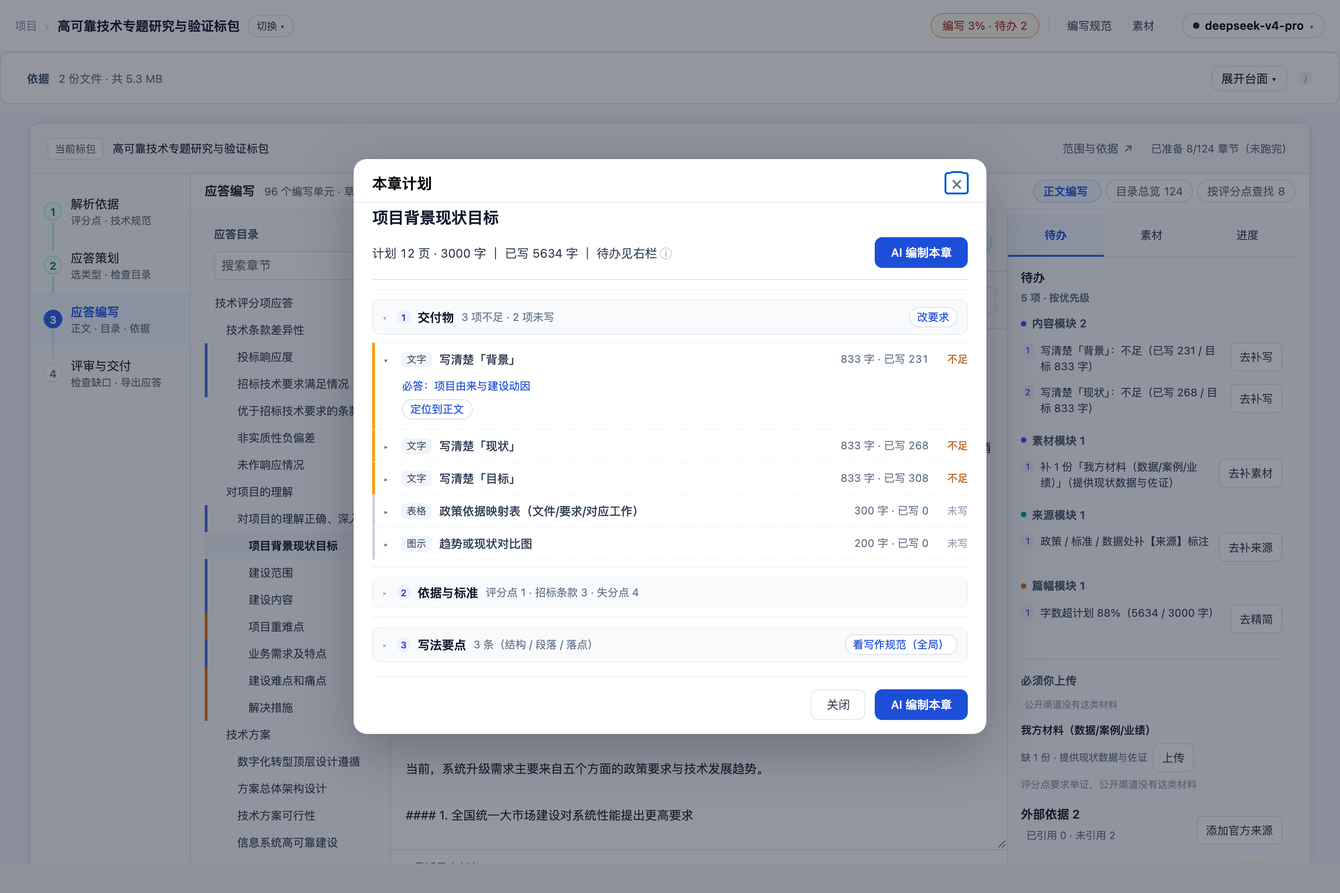
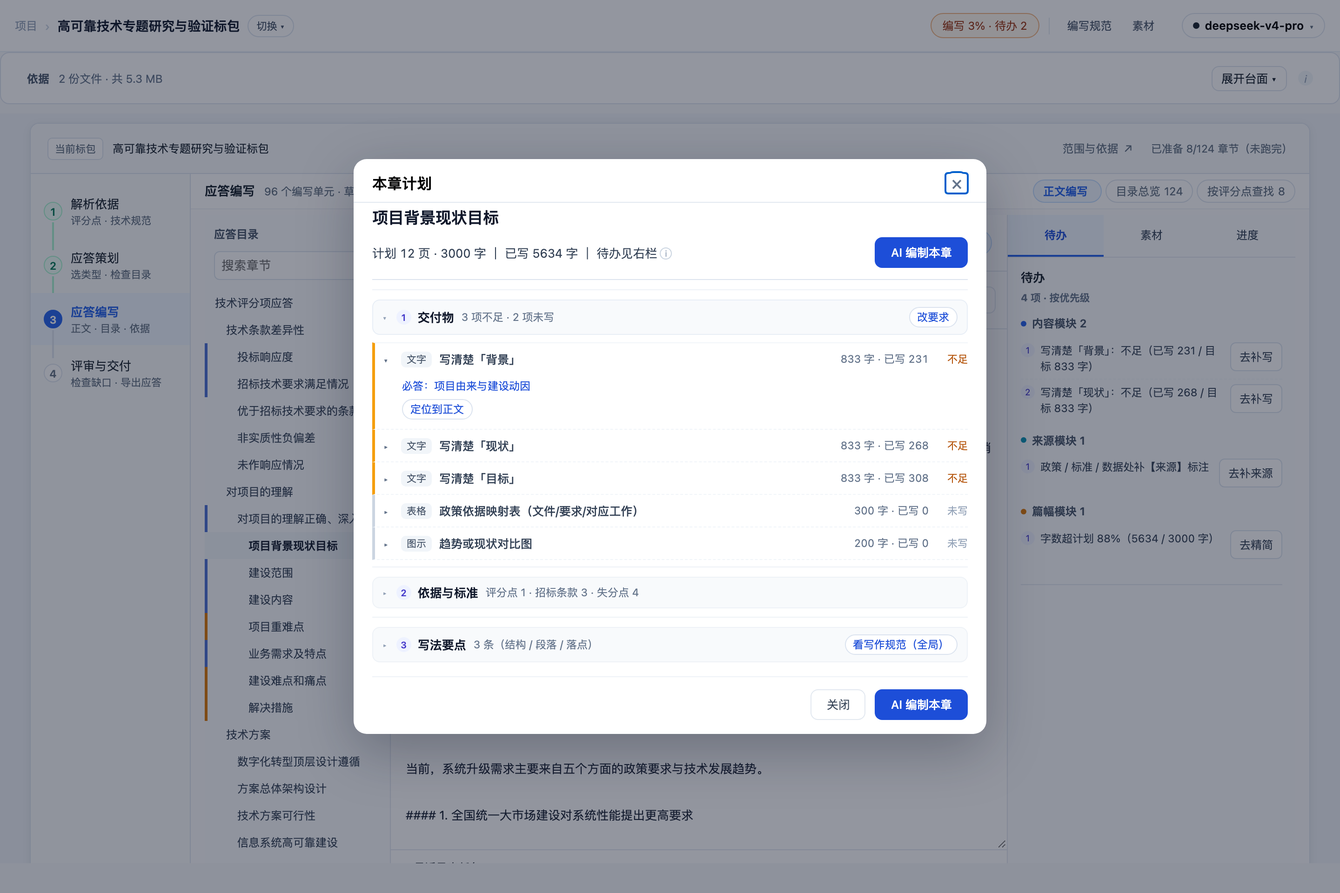
fix(右栏): 页签切换失效 + 素材类待办归位素材页签
用户截图指出两个问题：

## 1) 待办/素材页签切换失效（两个 pane 同时显示）
根因：pane 显隐规则还写着旧页签名
  `.cs-inspector[data-panel=basis] [data-pane=materials] …`
新页签是 todo/materials/ai → 规则不匹配 → 两个 pane 都渲染
修复：
  `.cs-inspector[data-panel=todo] [data-pane=materials] { display:none }`
  `.cs-inspector[data-panel=materials] [data-pane=todo] { display:none }`

## 2) 素材类问题应归「素材」页签
- 待办页签的分组去掉「素材模块」（只保留 内容/来源/篇幅/图表）
- 待办计数与章头角标同步排除素材类（5 → 4 项，见截图右上「待办 4」）
- 素材缺口仍在「素材」页签用三分法（公开可补 / 必须你上传）承载

## 自检新增 2 条（39 条）
- 待办页签不含素材模块
- 页签切换互斥（切素材时待办隐藏，同屏只能有一个 pane）

界面 39/39 通过（v318）

diff --git a/frontend/assets/chapter-studio.css b/frontend/assets/chapter-studio.css
@@ -3,7 +3,7 @@
 @media(max-width:1200px){.cs-workspace{grid-template-columns:185px minmax(300px,1fr)}.cs-aside{grid-column:1/-1;max-height:380px;border-top:1px solid #e2e8f0}.cs-workspace{height:auto}.cs-main{min-height:560px}.cs-tree{max-height:650px}}
 @media(max-width:700px){.cs-workspace,.cs-workspace:has(.cs-aside[hidden]){grid-template-columns:minmax(0,1fr)}.cs-tree{max-height:200px;border-bottom:1px solid #e2e8f0}.cs-editor{min-height:380px}.cs-document [data-cs=progress]{margin-left:0}}
 .cs-team{padding:10px 12px;background:#f8fafc;border-bottom:1px solid #e2e8f0;font-size:12px;line-height:1.8}.cs-team summary{cursor:pointer;font-weight:600}.cs-team button{font:inherit;padding:5px 9px;background:white;border:1px solid #dbe3ef;border-radius:6px;margin:3px 6px 3px 0;cursor:pointer}.cs-team button:disabled{opacity:.5}.ct-models{display:grid;grid-template-columns:repeat(auto-fit,minmax(180px,1fr));gap:8px;padding:8px 0}.ct-models label{display:flex;flex-direction:column;gap:4px}.ct-models select{padding:5px;max-width:100%;border:1px solid #dbe3ef;border-radius:5px}.ct-jobs article{padding:8px 0;border-bottom:1px solid #e2e8f0}.ct-jobs strong{margin-right:12px}.ct-detail{max-height:360px;overflow:auto}.ct-detail h4,.ct-detail h5{margin:8px 0}.ct-status:not(:empty){padding:8px 0;color:#1e40af}
-.cs-document-head{display:flex;justify-content:space-between;align-items:center;gap:12px;padding:12px 0;font-size:13px;border-bottom:1px solid #e2e8f0}.cs-document-head [data-cs=progress]{margin-left:12px;font-size:12px;color:#64748b}.cs-delivery{position:relative;font-size:12px}.cs-delivery>summary{cursor:pointer;color:#475569}.cs-delivery>.cs-document{position:absolute;right:0;top:26px;width:400px;max-width:80vw;padding:16px;background:white;border:1px solid #dbe3ef;border-radius:8px;box-shadow:0 8px 24px #17203315;z-index:5}.cs-tree-label{padding:12px 10px 0;font-size:12px;font-weight:600;color:#475569}.cs-main .cs-chapter-heading{padding:16px 16px 10px}.cs-chapter-heading h3{margin:3px 0 6px;font-size:18px}.cs-more{position:relative;margin-left:auto;font-size:12px}.cs-more>summary{cursor:pointer;padding:6px 9px}.cs-more[open]{display:flex;flex-wrap:wrap}.cs-toolbar{align-items:center}.cs-inspector{padding:0;min-width:0}.cs-inspector-tabs{display:flex;position:sticky;top:0;z-index:2;background:#fafbfd;border-bottom:1px solid #e2e8f0}.cs-inspector-tabs button{flex:1;border:0;border-bottom:2px solid transparent;border-radius:0;padding:13px 3px;white-space:nowrap;background:transparent}.cs-inspector-tabs [aria-pressed=true]{border-bottom-color:#2563eb;color:#1d4ed8;font-weight:600;background:#eff6ff}.cs-inspector [data-cs=aside]{padding:0 14px}.cs-inspector[data-panel=basis] [data-pane=materials],.cs-inspector[data-panel=materials] [data-pane=basis],.cs-inspector:not([data-panel=ai]) .cs-team,.cs-inspector[data-panel=ai] [data-cs=aside]{display:none}.cs-inspector .cs-team{border:0;background:transparent;padding:14px}.cs-team h4{font-size:14px;margin:0 0 8px}.cs-team .cs-primary{background:#2563eb;color:#fff;border-color:#2563eb;padding:9px 14px}.ct-steps{display:flex;gap:4px;padding:0;list-style:none;margin:12px 0;font-size:11px}.ct-steps li{flex:1;background:#f1f5f9;color:#64748b;padding:6px 3px;text-align:center;border-radius:4px}.ct-steps .active{background:#dbeafe;color:#1d4ed8}.ct-steps .done{background:#ecfdf5;color:#047857}.ct-settings,.ct-history{padding:12px 0;border-bottom:1px solid #e2e8f0}.ct-history article{padding:10px 0;border-bottom:1px solid #e2e8f0}.ct-detail:empty{display:none}.cs-workspace .cs-editor:focus{box-shadow:inset 3px 0 #dbeafe}
+.cs-document-head{display:flex;justify-content:space-between;align-items:center;gap:12px;padding:12px 0;font-size:13px;border-bottom:1px solid #e2e8f0}.cs-document-head [data-cs=progress]{margin-left:12px;font-size:12px;color:#64748b}.cs-delivery{position:relative;font-size:12px}.cs-delivery>summary{cursor:pointer;color:#475569}.cs-delivery>.cs-document{position:absolute;right:0;top:26px;width:400px;max-width:80vw;padding:16px;background:white;border:1px solid #dbe3ef;border-radius:8px;box-shadow:0 8px 24px #17203315;z-index:5}.cs-tree-label{padding:12px 10px 0;font-size:12px;font-weight:600;color:#475569}.cs-main .cs-chapter-heading{padding:16px 16px 10px}.cs-chapter-heading h3{margin:3px 0 6px;font-size:18px}.cs-more{position:relative;margin-left:auto;font-size:12px}.cs-more>summary{cursor:pointer;padding:6px 9px}.cs-more[open]{display:flex;flex-wrap:wrap}.cs-toolbar{align-items:center}.cs-inspector{padding:0;min-width:0}.cs-inspector-tabs{display:flex;position:sticky;top:0;z-index:2;background:#fafbfd;border-bottom:1px solid #e2e8f0}.cs-inspector-tabs button{flex:1;border:0;border-bottom:2px solid transparent;border-radius:0;padding:13px 3px;white-space:nowrap;background:transparent}.cs-inspector-tabs [aria-pressed=true]{border-bottom-color:#2563eb;color:#1d4ed8;font-weight:600;background:#eff6ff}.cs-inspector [data-cs=aside]{padding:0 14px}.cs-inspector[data-panel=todo] [data-pane=materials],.cs-inspector[data-panel=materials] [data-pane=todo],.cs-inspector:not([data-panel=ai]) .cs-team,.cs-inspector[data-panel=ai] [data-cs=aside]{display:none}.cs-inspector .cs-team{border:0;background:transparent;padding:14px}.cs-team h4{font-size:14px;margin:0 0 8px}.cs-team .cs-primary{background:#2563eb;color:#fff;border-color:#2563eb;padding:9px 14px}.ct-steps{display:flex;gap:4px;padding:0;list-style:none;margin:12px 0;font-size:11px}.ct-steps li{flex:1;background:#f1f5f9;color:#64748b;padding:6px 3px;text-align:center;border-radius:4px}.ct-steps .active{background:#dbeafe;color:#1d4ed8}.ct-steps .done{background:#ecfdf5;color:#047857}.ct-settings,.ct-history{padding:12px 0;border-bottom:1px solid #e2e8f0}.ct-history article{padding:10px 0;border-bottom:1px solid #e2e8f0}.ct-detail:empty{display:none}.cs-workspace .cs-editor:focus{box-shadow:inset 3px 0 #dbeafe}
 @media(min-width:981px){.cs-workspace{grid-template-columns:200px minmax(300px,1fr) 310px;height:75vh;min-height:620px}.cs-inspector{grid-column:auto;max-height:none;border-top:0}.cs-main{min-height:0}.cs-tree{max-height:none}}
 @media(max-width:980px){.cs-workspace{grid-template-columns:180px minmax(0,1fr);height:auto}.cs-inspector{grid-column:1/-1;max-height:500px;border-top:1px solid #e2e8f0}.cs-document-head{flex-wrap:wrap}.cs-document-head [data-cs=progress]{display:block;margin:5px 0 0}.cs-main{min-height:500px}.cs-tree{max-height:650px}}
 @media(max-width:600px){.cs-workspace{grid-template-columns:minmax(0,1fr)}.cs-tree{max-height:190px}.cs-toolbar{gap:4px;padding:8px}.cs-main .cs-chapter-heading{padding:12px}.cs-insert .cs-muted{display:none}}

diff --git a/frontend/assets/mode-outline.js b/frontend/assets/mode-outline.js
@@ -2,9 +2,9 @@
    抽成模块的目的：两段内联脚本有 90 个同名顶层标识符 + 18 个重复 DOM id，
    同页拼接必然互相覆盖；各自成为一个模块即各自一个作用域。
    本文件在抽取时**未改任何逻辑**。 */
-import {mountChapterStudio, exportDocument} from './chapter-studio.mjs?v=20261016-v317';
-import { api } from './api.js?v=20261016-v317';
-import { specContentHtml } from './spec-content.mjs?v=20261016-v317';
+import {mountChapterStudio, exportDocument} from './chapter-studio.mjs?v=20261016-v318';
+import { api } from './api.js?v=20261016-v318';
+import { specContentHtml } from './spec-content.mjs?v=20261016-v318';
 // 顶栏（项目名旁边那行「第 N 轮 · ...」）由共享壳 workspace.js 渲染。这里要把它
 // 改成**页面自己的真实状态**：checkpoint 的 stage 在准备中/编写准备完成后都停在
 // outline_review，只看它的话顶栏永远显示"待确认目录"（实测就是这个问题）。
@@ -12,7 +12,7 @@ import { workspace, renderWorkspaceChrome,
          REQUIREMENT_ROLES, SELECTABLE_REQUIREMENT_ROLES, ROLE_LABEL_SHARED, ROLE_HINT_SHARED,
          roleMismatchWarning, inferRoleFromFilename,
          uiAlert, uiConfirm,
-       } from './workspace.js?v=20261016-v317';
+       } from './workspace.js?v=20261016-v318';
 import { resolvePackageScope, buildOutlineTree, isOrphanedRun, activeStages, instructionDirty, newOutlineId, outlineSubtreeRange,
          moveOutlineNode, indentOutlineNode, outdentOutlineNode,
          moveManyOutlineNodes, indentManyOutlineNodes, outdentManyOutlineNodes,
@@ -31,7 +31,7 @@ import { resolvePackageScope, buildOutlineTree, isOrphanedRun, activeStages, ins
          // 章节状态投影：素材库 / 方案编辑 / 覆盖矩阵共用同一份判定（不再各算各的）
          chapterStage, chapterBadges, filterChapters, chapterFilterCounts,
          CHAPTER_STAGE_LABELS, evidenceByChapter, expandVisibleWithAncestors
-       } from './workspace-model.mjs?v=20261016-v317';
+       } from './workspace-model.mjs?v=20261016-v318';
 
 const params = new URLSearchParams(location.search);
 // projectId **只取数字部分**：链接被误写成 `?projectId=19**(Cmd+Shift+R)`（连带说明文字）
@@ -180,7 +180,7 @@ document.head.insertAdjacentHTML('beforeend', `<style>
 // 左栏章节树：行标记与「方案编辑」共用一份（2026-10-13 左栏归一）。
 // 此前两侧各拼一套（.ot-row / .doc-outline-item），数据投影虽已共用，
 // 但标记重复维护会漂移（workspace-model.mjs 注释里记着 "#undefined" 那次）。
-import { chapterNode, chapterBadgesHtml as sharedBadgesHtml } from './chapter-tree.mjs?v=20261016-v317';
+import { chapterNode, chapterBadgesHtml as sharedBadgesHtml } from './chapter-tree.mjs?v=20261016-v318';
 const blocksEmpty = document.getElementById('blocks-empty');
 const sidebarToc  = document.getElementById('sidebar-toc');
 const ringFill    = document.getElementById('ring-fill');

diff --git a/frontend/workbench.html b/frontend/workbench.html
@@ -4,7 +4,7 @@
     <meta charset="UTF-8" />
     <meta name="viewport" content="width=device-width, initial-scale=1.0" />
     <title>智能应标 · 材料撰写</title>
-    <link rel="stylesheet" href="./assets/styles.css?v=20261016-v317" />
+    <link rel="stylesheet" href="./assets/styles.css?v=20261016-v318" />
     <style>
       /* Outline pane */
       .workspace-shell .outline-pane {
@@ -2055,7 +2055,7 @@
     </style>
     <!-- Markdown 渲染（用于预览模式） -->
     <script src="https://cdn.jsdelivr.net/npm/marked@12.0.0/marked.min.js"></script>
-  <link rel="stylesheet" href="./assets/workspace.css?v=20261016-v317" />
+  <link rel="stylesheet" href="./assets/workspace.css?v=20261016-v318" />
   </head>
   <body>
   <script>
@@ -2500,18 +2500,18 @@
       </main>
     </div>
 
-    <script type="module" src="./assets/workbench.js?v=20261016-v317"></script>
+    <script type="module" src="./assets/workbench.js?v=20261016-v318"></script>
     <script type="module">
-      import { GenerateSession } from './assets/generate-session.js?v=20261016-v317';
-      import { initContextPanel } from './assets/context-panel.js?v=20261016-v317';
-      import { api } from './assets/api.js?v=20261016-v317';
-      import { request as workspaceRequest, refreshWorkspace, workspace, confirmChapterAction } from './assets/workspace.js?v=20261016-v317';
+      import { GenerateSession } from './assets/generate-session.js?v=20261016-v318';
+      import { initContextPanel } from './assets/context-panel.js?v=20261016-v318';
+      import { api } from './assets/api.js?v=20261016-v318';
+      import { request as workspaceRequest, refreshWorkspace, workspace, confirmChapterAction } from './assets/workspace.js?v=20261016-v318';
       // 提炼字段枚举 + 素材依据的**渲染片段**与 project-init 共用（见 workspace-model.mjs 注释）：
       // 性质徽标与出处行的实现在那边只有一份，两个页面不再各写一套（曾经因此漂移出
       // "每行显示 #undefined"）。
       import { CONSTRAINT_LEVELS, constraintLevelLabel,
                evidenceKindBadgeHtml, evidenceSourceLineHtml, evidenceSnippet,
-               chapterStage, CHAPTER_STAGE_LABELS } from './assets/workspace-model.mjs?v=20261016-v317';
+               chapterStage, CHAPTER_STAGE_LABELS } from './assets/workspace-model.mjs?v=20261016-v318';
       initContextPanel();
 
       // 素材抽屉：默认收起（写作时右栏就是正文本身），点工具栏「素材 n ▸」打开；
@@ -5575,6 +5575,6 @@
       })();
     })();
     </script>
-  <script type="module" src="./assets/workspace.js?v=20261016-v317"></script>
+  <script type="module" src="./assets/workspace.js?v=20261016-v318"></script>
   </body>
 </html>

diff --git a/frontend/three-mode.html b/frontend/three-mode.html
@@ -4,9 +4,9 @@
     <meta charset="UTF-8" />
     <meta name="viewport" content="width=device-width, initial-scale=1.0" />
     <title>AiBidding · Workbench Init State</title>
-    <link rel="stylesheet" href="./assets/response-outline.css?v=20261016-v317" />
-    <link rel="stylesheet" href="./assets/chapter-studio.css?v=20261016-v317" />
-    <link rel="stylesheet" href="./assets/styles.css?v=20261016-v317" />
+    <link rel="stylesheet" href="./assets/response-outline.css?v=20261016-v318" />
+    <link rel="stylesheet" href="./assets/chapter-studio.css?v=20261016-v318" />
+    <link rel="stylesheet" href="./assets/styles.css?v=20261016-v318" />
     <style>
 /* ── 三栏布局 ── */
 .init-layout {
@@ -3350,8 +3350,8 @@ body[data-view="matching"] .match-detail { display: block; }
   body[data-view="editor"] .ws-editor-layout { flex: 1 1 auto; min-height: 0; }
 
 </style>
-  <link rel="stylesheet" href="./assets/workspace.css?v=20261016-v317" />
-  <link rel="stylesheet" href="./assets/ui.css?v=20261016-v317" />   <!-- 组件最小集：最后加载以统一历史类名 -->
+  <link rel="stylesheet" href="./assets/workspace.css?v=20261016-v318" />
+  <link rel="stylesheet" href="./assets/ui.css?v=20261016-v318" />   <!-- 组件最小集：最后加载以统一历史类名 -->
   </head>
   <body data-view="outline" data-modes="outline,matching,editor">
     <div class="workspace-shell">
@@ -4062,16 +4062,16 @@ body[data-view="matching"] .match-detail { display: block; }
         if (skel) skel.hidden = true;
       }, 6000);
     </script>
-    <script type="module" src="./assets/workbench.js?v=20261016-v317"></script>
-    <script type="module" src="./assets/mode-dispatch.js?v=20261016-v317"></script>
+    <script type="module" src="./assets/workbench.js?v=20261016-v318"></script>
+    <script type="module" src="./assets/mode-dispatch.js?v=20261016-v318"></script>
     <!-- 动态 import：失败可捕获并上报（静态 import 失败无法捕获，会让整页静默不执行） -->
     <script type="module">
-      for (const mod of ['./assets/mode-outline.js?v=20261016-v317',
-                        './assets/mode-editor.js?v=20261016-v317']) {
+      for (const mod of ['./assets/mode-outline.js?v=20261016-v318',
+                        './assets/mode-editor.js?v=20261016-v318']) {
         try { await import(mod); }
         catch (err) { window.__bootErrors.push(`模块加载失败 ${mod}：${err?.message || err}`); }
       }
     </script>
-  <script type="module" src="./assets/workspace.js?v=20261016-v317"></script>
+  <script type="module" src="./assets/workspace.js?v=20261016-v318"></script>
   </body>
 </html>

diff --git a/frontend/project-init.html b/frontend/project-init.html
@@ -4,7 +4,7 @@
     <meta charset="UTF-8" />
     <meta name="viewport" content="width=device-width, initial-scale=1.0" />
     <title>AiBidding · Workbench Init State</title>
-    <link rel="stylesheet" href="./assets/styles.css?v=20261016-v317" />
+    <link rel="stylesheet" href="./assets/styles.css?v=20261016-v318" />
     <style>
 /* ── 三栏布局 ── */
 .init-layout {
@@ -889,7 +889,7 @@ body[data-view="matching"] .match-detail { display: block; }
   background: #eff6ff;
 }
     </style>
-  <link rel="stylesheet" href="./assets/workspace.css?v=20261016-v317" />
+  <link rel="stylesheet" href="./assets/workspace.css?v=20261016-v318" />
   </head>
   <body data-view="outline">
   <script>
@@ -1097,14 +1097,14 @@ body[data-view="matching"] .match-detail { display: block; }
     </div>
 
     <script type="module">
-import { api } from './assets/api.js?v=20261016-v317';
+import { api } from './assets/api.js?v=20261016-v318';
 // 顶栏（项目名旁边那行「第 N 轮 · ...」）由共享壳 workspace.js 渲染。这里要把它
 // 改成**页面自己的真实状态**：checkpoint 的 stage 在提炼中/提炼完成后都停在
 // outline_review，只看它的话顶栏永远显示"待确认目录"（实测就是这个问题）。
 import { workspace, renderWorkspaceChrome,
          REQUIREMENT_ROLES, ROLE_LABEL_SHARED, ROLE_HINT_SHARED,
          roleMismatchWarning, inferRoleFromFilename,
-       } from './assets/workspace.js?v=20261016-v317';
+       } from './assets/workspace.js?v=20261016-v318';
 import { buildOutlineTree, isOrphanedRun, activeStages, instructionDirty, newOutlineId, outlineSubtreeRange,
          moveOutlineNode, indentOutlineNode, outdentOutlineNode,
          removeOutlineSubtree, insertSiblingAfter, insertChildOf,
@@ -1118,7 +1118,7 @@ import { buildOutlineTree, isOrphanedRun, activeStages, instructionDirty, newOut
          // 章节状态投影：素材库 / 方案编辑 / 覆盖矩阵共用同一份判定（不再各算各的）
          chapterStage, chapterBadges, filterChapters, chapterFilterCounts,
          CHAPTER_STAGE_LABELS, evidenceByChapter, expandVisibleWithAncestors
-       } from './assets/workspace-model.mjs?v=20261016-v317';
+       } from './assets/workspace-model.mjs?v=20261016-v318';
 
 const params = new URLSearchParams(location.search);
 const projectId = params.get('projectId');
@@ -4957,6 +4957,6 @@ bindMatchDetailActions();
   });
 })();
     </script>
-  <script type="module" src="./assets/workspace.js?v=20261016-v317"></script>
+  <script type="module" src="./assets/workspace.js?v=20261016-v318"></script>
   </body>
 </html>

diff --git a/frontend/assets/mode-editor.js b/frontend/assets/mode-editor.js
@@ -2,13 +2,13 @@
    抽成模块的目的：两段内联脚本有 90 个同名顶层标识符 + 18 个重复 DOM id，
    同页拼接必然互相覆盖；各自成为一个模块即各自一个作用域。
    本文件在抽取时**未改任何逻辑**。 */
-import { GenerateSession } from './generate-session.js?v=20261016-v317';
+import { GenerateSession } from './generate-session.js?v=20261016-v318';
 // 左栏章节树：与「要求与大纲 / 素材库」共用一份行标记（2026-10-13 左栏归一）
-import { chapterNode, renderChapterTree } from './chapter-tree.mjs?v=20261016-v317';
-import { initContextPanel } from './context-panel.js?v=20261016-v317';
-import { api } from './api.js?v=20261016-v317';
+import { chapterNode, renderChapterTree } from './chapter-tree.mjs?v=20261016-v318';
+import { initContextPanel } from './context-panel.js?v=20261016-v318';
+import { api } from './api.js?v=20261016-v318';
 import { request as workspaceRequest, refreshWorkspace, workspace, confirmChapterAction ,
-         uiAlert, uiConfirm} from './workspace.js?v=20261016-v317';
+         uiAlert, uiConfirm} from './workspace.js?v=20261016-v318';
 
 // ── 本章要求 bar 的应答条目缓存 ──────────────────────────────
 // 必须**声明在模块最前面**：它原本声明在文件中部，而模块之间存在循环依赖
@@ -21,7 +21,7 @@ let responseItemsByBlock = {};
 // "每行显示 #undefined"）。
 import { CONSTRAINT_LEVELS, constraintLevelLabel,
          evidenceKindBadgeHtml, evidenceSourceLineHtml, evidenceSnippet,
-         chapterStage, CHAPTER_STAGE_LABELS } from './workspace-model.mjs?v=20261016-v317';
+         chapterStage, CHAPTER_STAGE_LABELS } from './workspace-model.mjs?v=20261016-v318';
 initContextPanel();
 
 // 素材抽屉：默认收起（写作时右栏就是正文本身），点工具栏「素材 n ▸」打开；

diff --git a/frontend/project-intake.html b/frontend/project-intake.html
@@ -3,7 +3,7 @@
 <head>
   <meta charset="utf-8"><meta name="viewport" content="width=device-width,initial-scale=1">
   <title>项目准备 · 智能应标</title>
-  <link rel="stylesheet" href="/assets/styles.css?v=20261016-v317">
+  <link rel="stylesheet" href="/assets/styles.css?v=20261016-v318">
   <style>
     body{margin:0;background:#f7f8fa;color:#17202a;font-family:Inter,"PingFang SC",sans-serif}
     .shell{max-width:1120px;margin:auto;padding:28px}.top{display:flex;justify-content:space-between;align-items:center;margin-bottom:22px}
@@ -32,4 +32,4 @@
 </main>
 <dialog id="package-editor"><form id="package-form"><h2>编辑投标对象</h2><p class="hint">仅在识别有误时修改；名称可留空。</p><input id="edit-id" type="hidden"><label>对象类型<select id="edit-kind"><option value="package">标包</option><option value="section">标段</option><option value="target">独立标的</option></select></label><label>所属标的编号<input id="edit-target"></label><label>标包 / 标段编号<input id="edit-code"></label><label>完整名称<input id="edit-name" maxlength="300"></label><div class="actions"><button type="button" id="cancel-edit">取消</button><button class="primary" type="submit">保存</button></div></form></dialog>
 <dialog id="merge-dialog"><form id="merge-form"><h2>合并重复候选</h2><p class="hint">将当前候选的证据合并到以下保留项。已有运行成果的候选不能合并，保留项需要重新核验。</p><input id="merge-source" type="hidden"><label>保留的投标对象<select id="merge-destination"></select></label><div class="actions"><button type="button" id="cancel-merge">取消</button><button type="submit" class="primary">确认合并</button></div></form></dialog>
-<script type="module" src="/assets/intake.js?v=20261016-v317"></script></body></html>
+<script type="module" src="/assets/intake.js?v=20261016-v318"></script></body></html>

diff --git a/frontend/review.html b/frontend/review.html
@@ -4,16 +4,16 @@
     <meta charset="UTF-8" />
     <meta name="viewport" content="width=device-width, initial-scale=1.0" />
     <title>AiBidding · 质量检查</title>
-    <link rel="stylesheet" href="./assets/styles.css?v=20261016-v317" />
-    <link rel="stylesheet" href="./assets/review.css?v=20261016-v317" />
-  <link rel="stylesheet" href="./assets/workspace.css?v=20261016-v317" />
+    <link rel="stylesheet" href="./assets/styles.css?v=20261016-v318" />
+    <link rel="stylesheet" href="./assets/review.css?v=20261016-v318" />
+  <link rel="stylesheet" href="./assets/workspace.css?v=20261016-v318" />
   <style>
     /* 返回作业面板：与项目名同级的次级入口 */
     .back-to-panel { margin-left:10px; font-size:12.5px; color:var(--muted); text-decoration:none;
       border:1px solid var(--line); border-radius:8px; padding:3px 10px; }
     .back-to-panel:hover { color:var(--text); background:var(--bg-2); }
   </style>
-  <link rel="stylesheet" href="./assets/ui.css?v=20261016-v317" />   <!-- 组件最小集：最后加载以统一历史类名 -->
+  <link rel="stylesheet" href="./assets/ui.css?v=20261016-v318" />   <!-- 组件最小集：最后加载以统一历史类名 -->
   </head>
   <body>
     <div class="workspace-shell">
@@ -96,7 +96,7 @@
       </main>
     </div>
 
-    <script type="module" src="./assets/review.js?v=20261016-v317"></script>
-  <script type="module" src="./assets/workspace.js?v=20261016-v317"></script>
+    <script type="module" src="./assets/review.js?v=20261016-v318"></script>
+  <script type="module" src="./assets/workspace.js?v=20261016-v318"></script>
   </body>
 </html>

diff --git a/frontend/assets/workbench.js b/frontend/assets/workbench.js
@@ -1,12 +1,12 @@
-import {workspace, subscribe, refreshWorkspace, workspaceUrl, confirmChapterAction, openDialog, showHistory, statusLabels, esc} from './workspace.js?v=20261016-v317';
+import {workspace, subscribe, refreshWorkspace, workspaceUrl, confirmChapterAction, openDialog, showHistory, statusLabels, esc} from './workspace.js?v=20261016-v318';
 // 章节状态/依据徽标与「素材库」共用一份投影（同一棵目录树，四个环节都一样）
-import {chapterBadges, parseEvidence} from './workspace-model.mjs?v=20261016-v317';
+import {chapterBadges, parseEvidence} from './workspace-model.mjs?v=20261016-v318';
 // 左栏章节树：**三个模式共用一份**行标记（2026-10-13 归一）。
 // 此前编辑器侧自己拼 `.doc-outline-item`、大纲侧拼 `.ot-row`，是两套实现；
 // 数据投影本就共用（workspace-model），这里把标记也收敛掉。
 // 行上仍保留 `doc-outline-item` 类与 data-block-id 属性，兼容 mode-editor.js 里
 // 既有的 10 处选择器（改动面最小化）。
-import {chapterNode, renderChapterTree, chapterBadgesHtml} from './chapter-tree.mjs?v=20261016-v317';
+import {chapterNode, renderChapterTree, chapterBadgesHtml} from './chapter-tree.mjs?v=20261016-v318';
 // 左栏树的**唯一宿主**：由 mode-dispatch 在模式切换时把 #blocks-list 搬到当前模式的
 // 左栏位置。归一前这里是 `.doc-outline`，与大纲侧 `#blocks-list` 各渲一棵（实测
 // .ot-node 有 120 个 = 两棵各 60）。动态解析而不是加载时捕获，就是为了让宿主可搬。

diff --git a/frontend/projects.html b/frontend/projects.html
@@ -4,7 +4,7 @@
     <meta charset="UTF-8" />
     <meta name="viewport" content="width=device-width, initial-scale=1.0" />
     <title>智能应标 · 项目列表</title>
-    <link rel="stylesheet" href="./assets/styles.css?v=20261016-v317" />
+    <link rel="stylesheet" href="./assets/styles.css?v=20261016-v318" />
     <style>
       /* ── 页头 ── */
       .app-header {
@@ -613,7 +613,7 @@
       .btn-api-save:disabled { opacity: 0.45; cursor: default; }
       .btn-api-save:not(:disabled):hover { opacity: 0.88; }
     </style>
-    <link rel="stylesheet" href="./assets/ui.css?v=20261016-v317" />   <!-- 组件最小集：最后加载以统一历史类名 -->
+    <link rel="stylesheet" href="./assets/ui.css?v=20261016-v318" />   <!-- 组件最小集：最后加载以统一历史类名 -->
 </head>
   <body>
     <!-- 页头 -->
@@ -745,7 +745,7 @@
     </div>
 
     <script type="module">
-      import { api } from './assets/api.js?v=20261016-v317';
+      import { api } from './assets/api.js?v=20261016-v318';
 
       // ── 状态 ──
       const reqFiles = []; // {file, name, size, ext}

diff --git a/frontend/diff-review.html b/frontend/diff-review.html
@@ -4,8 +4,8 @@
     <meta charset="UTF-8" />
     <meta name="viewport" content="width=device-width, initial-scale=1.0" />
     <title>AiBidding · Diff Review</title>
-    <link rel="stylesheet" href="./assets/styles.css?v=20261016-v317" />
-  <link rel="stylesheet" href="./assets/workspace.css?v=20261016-v317" />
+    <link rel="stylesheet" href="./assets/styles.css?v=20261016-v318" />
+  <link rel="stylesheet" href="./assets/workspace.css?v=20261016-v318" />
   </head>
   <body>
     <div class="workspace-shell">
@@ -98,7 +98,7 @@
     </div>
 
     <script type="module">
-      import { api } from './assets/api.js?v=20261016-v317';
+      import { api } from './assets/api.js?v=20261016-v318';
 
       const params    = new URLSearchParams(location.search);
       const projectId = params.get('projectId');
@@ -326,6 +326,6 @@
 
       loadRevisions();
     </script>
-  <script type="module" src="./assets/workspace.js?v=20261016-v317"></script>
+  <script type="module" src="./assets/workspace.js?v=20261016-v318"></script>
   </body>
 </html>

diff --git a/frontend/assets/workspace.js b/frontend/assets/workspace.js
@@ -1,11 +1,11 @@
-import {projectChapters, summarize, statusLabels, stageLabels, activeStages, runtimeStages, isOrphanedRun, isExtractDone, diffHtml, escapeHtml as esc} from './workspace-model.mjs?v=20261016-v317';
+import {projectChapters, summarize, statusLabels, stageLabels, activeStages, runtimeStages, isOrphanedRun, isExtractDone, diffHtml, escapeHtml as esc} from './workspace-model.mjs?v=20261016-v318';
 export {statusLabels, esc};
 // 材料角色体系再导出：project-init 的角色下拉与"分类纠错提示"都从这里取
 export {
   REQUIREMENT_ROLES, SELECTABLE_REQUIREMENT_ROLES, SOURCE_ROLES, ALL_MATERIAL_ROLES,
   ROLE_LABEL as ROLE_LABEL_SHARED, ROLE_HINT as ROLE_HINT_SHARED,
   isRequirementRole, inferRoleFromFilename, roleMismatchWarning,
-} from './material-roles.mjs?v=20261016-v317';
+} from './material-roles.mjs?v=20261016-v318';
 export async function request(url, options) {
   const response = await fetch(url, options);
   const data = await response.json().catch(() => ({}));
